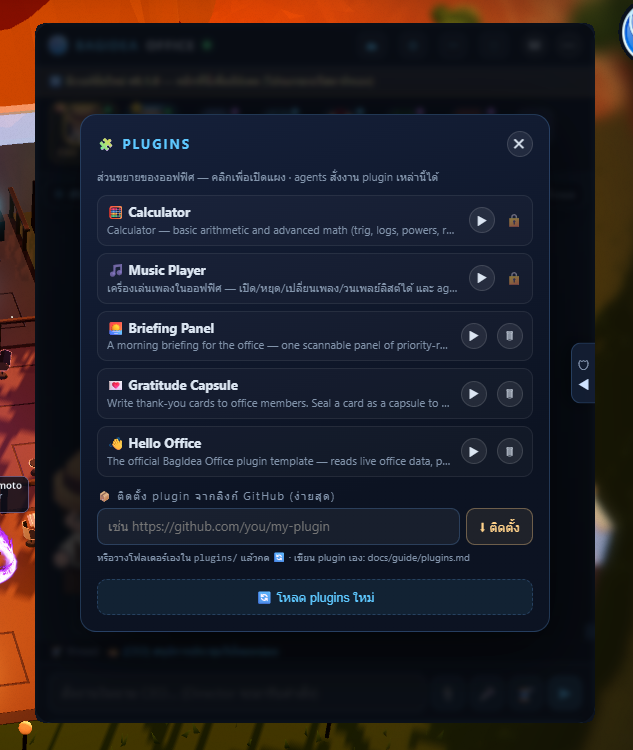
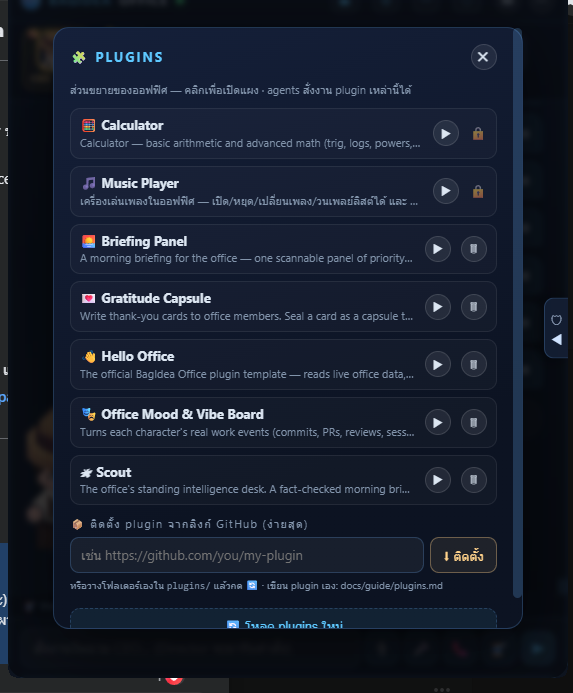
docs/web: macOS support now reflected in ALL languages + plugin showcase imgs
The website auto-picks the visitor's browser language, and the i18n table only
fully defines en/de/th — but the macOS-beta refresh had only touched the English
strings, so Thai/German visitors still saw "Windows only, macOS planned". Updated
the platform strings (badge, install note, requirements, the install-platform doc
line, and the "which platforms" FAQ — d_faq_a3, which had been missed entirely)
across en/de/th, and neutralized the hero subtitle + docs intro from "your Windows
desktop" to "your desktop". The other 11 listed languages fall back to the (now
correct) English.

Also surfaced plugins visually: refreshed plugins.png with the current panel
(7 plugins incl the agent-built Scout / Office Mood) and added briefing.png —
a plugin's live panel — to the README gallery and the web docs.

No code or VERSION change (docs/web only — no update banner; Pages redeploys).

diff --git a/web/assets/i18n.js b/web/assets/i18n.js
@@ -14,7 +14,7 @@ const I18N = {
     nav_features:"Features", nav_docs:"Docs", nav_install:"Install", nav_sponsors:"Sponsors",
     cta_get:"Get started", cta_docs:"Read the docs", cta_github:"GitHub",
     hero_title:'Your wallpaper <span class="grad">goes to work</span>.',
-    hero_sub:"BagIdea Office turns your Windows desktop into a living 2.5D office where every AI agent is a real Claude — they walk to their desks, ask permission, hold meetings, learn new skills, propose their own projects, and grow with you. A whole AI team living behind your icons.",
+    hero_sub:"BagIdea Office turns your desktop into a living HD-2D office where every AI agent is a real Claude that walks to its desk, asks permission, holds meetings, and gets work done — behind your icons.",
     badge_win:"Windows 11 · macOS (beta)", badge_open:"Open source", badge_free:"Free to run",
     badge_langs:"14 languages",
     shot_cap:"A real desktop, captured live — agents at their desks, the brand billboard, the day/night cycle following your local time.",
@@ -81,7 +81,7 @@ const I18N = {
     dn_features:"Features", dn_plugins:"Plugins & skills", dn_lang:"Languages",
     dn_cli:"CLI reference", dn_faq:"FAQ",
 
-    d_intro_h:"Introduction", d_intro_p1:"BagIdea Office is a living AI-agent office that runs as your Windows desktop wallpaper. Every AI agent on your machine becomes a pixel-art employee in an HD-2D office: they walk to their desks when real work starts, gather at Security to ask permission, hold meetings, learn skills, and the lights follow your real local time.",
+    d_intro_h:"Introduction", d_intro_p1:"BagIdea Office is a living AI-agent office that runs as your desktop wallpaper. Every AI agent on your machine becomes a pixel-art employee in an HD-2D office: they walk to their desks when real work starts, gather at Security to ask permission, hold meetings, learn skills, and the lights follow your real local time.",
     d_intro_p2:"It is not a dashboard and not a chat window — it is a world that renders the true state of your Claude Code sessions, headless agent runs and custom scripts as living characters, behind your desktop icons.",
     d_intro_p3:"Three independent layers keep it robust: a zero-dependency Node daemon (the source of truth), a Godot 4 renderer (the wallpaper), and a lightweight overlay UI (chat, settings, approvals). The daemon keeps agents running even if rendering restarts.",
 
@@ -132,7 +132,7 @@ const I18N = {
     d_faq_h:"FAQ",
     d_faq_q1:"Does it cost money to run?", d_faq_a1:"The app is free and open source (MIT). Agents run through your own Claude Code login, so usage follows your existing Claude account or subscription — there is no separate BagIdea fee.",
     d_faq_q2:"Is my code/data sent anywhere?", d_faq_a2:"The daemon runs locally on 127.0.0.1. Agents are Claude Code sessions, so they use Claude like any Claude Code project. Optional features (voice, image, realtime) use your own OpenAI/Gemini keys only when you enable them.",
-    d_faq_q3:"Which platforms are supported?", d_faq_a3:"Windows 11 today. Linux and macOS wallpaper backends are on the roadmap.",
+    d_faq_q3:"Which platforms are supported?", d_faq_a3:"Windows 11 and macOS 13+ (beta) today. A Linux wallpaper backend is on the roadmap.",
     d_faq_q4:"Can I build my own plugin?", d_faq_a4:"Yes — fork the official template repo. A person or an agent can build a working plugin from it in minutes; the full spec is in the plugin guide.",
   },
 
@@ -140,8 +140,8 @@ const I18N = {
     nav_features:"Funktionen", nav_docs:"Dokumentation", nav_install:"Installieren", nav_sponsors:"Sponsoren",
     cta_get:"Loslegen", cta_docs:"Dokumentation lesen", cta_github:"GitHub",
     hero_title:'Ihr Hintergrundbild <span class="grad">geht arbeiten</span>.',
-    hero_sub:"BagIdea Office verwandelt Ihren Windows-Desktop in ein lebendiges HD-2D-Büro, in dem jeder KI-Agent ein echter Claude ist, der zu seinem Schreibtisch geht, um Erlaubnis bittet, Meetings abhält und Arbeit erledigt — hinter Ihren Icons.",
-    badge_win:"Windows 11", badge_open:"Open Source", badge_free:"Kostenlos nutzbar",
+    hero_sub:"BagIdea Office verwandelt deinen Desktop in ein lebendiges HD-2D-Büro, in dem jeder KI-Agent ein echter Claude ist, der an seinen Schreibtisch geht, um Erlaubnis bittet, Meetings abhält und Arbeit erledigt – hinter deinen Icons.",
+    badge_win:"Windows 11 · macOS (beta)", badge_open:"Open Source", badge_free:"Kostenlos nutzbar",
     badge_langs:"14 Sprachen",
     shot_cap:"Ein echter Desktop, live aufgenommen — Agents an ihren Schreibtischen, das Marken-Billboard, der Tag-Nacht-Zyklus nach Ihrer lokalen Zeit.",
 
@@ -171,11 +171,11 @@ const I18N = {
 
     inst_eyebrow:"Installation", inst_title:"In Minuten einsatzbereit",
     inst_lead:"Ein Befehl installiert alle Abhängigkeiten, baut die App und fügt sie zu Ihrem PATH hinzu.",
-    inst_plat:"Derzeit unterstützt: Windows 11. Linux- und macOS-Wallpaper-Backends sind geplant und werden in einem späteren Update veröffentlicht.",
+    inst_plat:"Windows 11 (stabil) und macOS 13+ (beta) werden unterstützt. Ein Linux-Hintergrundbild-Backend ist für ein späteres Update geplant.",
     inst_s1_h:"Den Einzel-Installer ausführen", inst_s1_p:"Öffnen Sie PowerShell und fügen Sie dies ein. Es installiert Git, Node LTS, Rust, Godot 4.6.3 und die Claude Code-CLI, klont die App, baut die Shell, versieht das Icon mit dem Markenzeichen und fügt den bagidea-Befehl zu Ihrem PATH hinzu.",
     inst_s2_h:"Bei Claude anmelden (nur beim ersten Mal)", inst_s2_p:"Öffnen Sie ein neues Terminal und führen Sie claude einmal aus, um sich mit Ihrem bestehenden Claude-Konto oder -Abonnement anzumelden — das ist das Gehirn jedes Agents.",
     inst_s3_h:"Das Büro starten", inst_s3_p:"Führen Sie bagidea start aus (oder verwenden Sie die Startmenü-Verknüpfung). Ihr Hintergrundbild wird zum Büro, mit Chat-Kopf und Tray-Icon bereit.",
-    inst_req_h:"Systemanforderungen", inst_req:"Windows 11 · eine Vulkan-fähige GPU (getestet auf einer GTX 1060) · ein Claude-Konto (Claude Code CLI). Node, Rust und Godot werden vom Installer für Sie installiert.",
+    inst_req_h:"Systemanforderungen", inst_req:"Windows 11 oder macOS 13+ (beta) · eine Vulkan-fähige GPU (verifiziert auf einer GTX 1060) · ein Claude-Konto (Claude Code CLI). Node, Rust und Godot werden vom Installer für Sie installiert.",
     inst_manual:"Lieber manuell? Klonen Sie das Repo, bauen Sie die Rust-Shell mit cargo build --release und führen Sie sie aus. Vollständige Schritte sind in der Dokumentation.",
 
     cli_eyebrow:"Befehlszeile", cli_title:"Die bagidea-CLI",
@@ -205,7 +205,7 @@ const I18N = {
     dn_features:"Funktionen", dn_plugins:"Plugins & Fähigkeiten", dn_lang:"Sprachen",
     dn_cli:"CLI-Referenz", dn_faq:"FAQ",
 
-    d_intro_h:"Einführung", d_intro_p1:"BagIdea Office ist ein lebendiges KI-Agent-Büro, das als Ihr Windows-Desktop-Hintergrundbild läuft. Jeder KI-Agent auf Ihrem Rechner wird zu einem Pixel-Art-Mitarbeiter in einem HD-2D-Büro: Er geht zu seinem Schreibtisch, wenn echte Arbeit beginnt, versammelt sich bei der Sicherheitszentrale, um Erlaubnis zu bitten, hält Meetings ab, lernt Fähigkeiten, und die Lichter folgen Ihrer echten lokalen Zeit.",
+    d_intro_h:"Einführung", d_intro_p1:"BagIdea Office ist ein lebendiges KI-Agenten-Büro, das als dein Desktop-Hintergrund läuft. Jeder KI-Agent auf deinem Rechner wird zu einem Pixel-Art-Mitarbeiter in einem HD-2D-Büro: Sie gehen an ihre Schreibtische, wenn die echte Arbeit beginnt, versammeln sich an der Security, um um Erlaubnis zu bitten, halten Meetings ab, erlernen Fähigkeiten, und das Licht folgt deiner realen Ortszeit.",
     d_intro_p2:"Es ist kein Dashboard und kein Chatfenster — es ist eine Welt, die den wahren Zustand Ihrer Claude Code-Sitzungen, kopflosen Agent-Läufe und benutzerdefinierten Skripte als lebendige Figuren hinter Ihren Desktop-Icons rendert.",
     d_intro_p3:"Drei unabhängige Schichten sorgen für Robustheit: ein abhängigkeitsfreier Node-Daemon (die einzige Wahrheitsquelle), ein Godot 4-Renderer (das Hintergrundbild) und eine leichtgewichtige Overlay-UI (Chat, Einstellungen, Genehmigungen). Der Daemon hält Agents am Laufen, auch wenn der Renderer neu startet.",
 
@@ -228,7 +228,7 @@ const I18N = {
     d_install_manual_p:"Klonen Sie das Repository, zeigen Sie die Claude-Hook-Pfade auf Ihren Klon und bauen Sie dann die Rust-Shell:",
     d_install_first_h:"Erste Ausführung",
     d_install_first_p:"Melden Sie sich einmal bei Claude an, dann starten Sie das Büro. Ihr Hintergrundbild wird zum live Büro; ein Chat-Kopf und ein Tray-Icon erscheinen.",
-    d_install_plat:"Plattformunterstützung: Windows 11 heute (Wallpaper-Einbettung verwendet die WorkerW-Technik). Linux- und macOS-Backends sind für ein späteres Update geplant.",
+    d_install_plat:"Plattformunterstützung: Windows 11 (stabil, die Einbettung des Hintergrundbilds nutzt die WorkerW-Technik) und macOS 13+ (beta, neu in dieser Version). Ein Linux-Backend ist für ein späteres Update geplant.",
 
     d_using_h:"Nutzung",
     d_chat_h:"Chat & CEO", d_chat_p:"Das Chat-Panel öffnet sich auf Ihrem CEO-Sitz. Geben Sie einen Befehl auf dem CEO-Sitz ein und der Director kommt herüber, um ihn entgegenzunehmen, plant und delegiert — Sie sehen die Übergaben auf dem Hintergrundbild, und die Zusammenfassung wird zu Ihnen zurückgebracht. Um direkt mit einem Agent zu sprechen, klicken Sie auf sein Gesicht in der Leiste oder auf der Live-Karte. Jedes Gespräch ist ein fortsetzbarer Thread mit vollständigem Verlauf.",
@@ -246,7 +246,7 @@ const I18N = {
     d_faq_h:"FAQ",
     d_faq_q1:"Kostet es Geld, es zu betreiben?", d_faq_a1:"Die App ist kostenlos und Open Source (MIT). Agents laufen über Ihr eigenes Claude Code-Login, sodass die Nutzung Ihrem bestehenden Claude-Konto oder -Abonnement folgt — es gibt keine separate BagIdea-Gebühr.",
     d_faq_q2:"Werden mein Code/meine Daten irgendwohin gesendet?", d_faq_a2:"Der Daemon läuft lokal auf 127.0.0.1. Agents sind Claude Code-Sitzungen, daher verwenden sie Claude wie jedes Claude Code-Projekt. Optionale Funktionen (Sprache, Bild, Echtzeit) verwenden nur Ihre eigenen OpenAI/Gemini-Schlüssel, wenn Sie sie aktivieren.",
-    d_faq_q3:"Welche Plattformen werden unterstützt?", d_faq_a3:"Windows 11 heute. Linux- und macOS-Wallpaper-Backends sind auf der Roadmap.",
+    d_faq_q3:"Welche Plattformen werden unterstützt?", d_faq_a3:"Windows 11 und macOS 13+ (beta) heute. Ein Linux-Hintergrundbild-Backend steht auf der Roadmap.",
     d_faq_q4:"Kann ich mein eigenes Plugin bauen?", d_faq_a4:"Ja — forken Sie das offizielle Vorlagen-Repo. Eine Person oder ein Agent kann in Minuten ein funktionierendes Plugin daraus erstellen; die vollständige Spezifikation befindet sich im Plugin-Leitfaden.",
   },
 
@@ -254,8 +254,8 @@ const I18N = {
     nav_features:"ฟีเจอร์", nav_docs:"คู่มือ", nav_install:"ติดตั้ง", nav_sponsors:"สปอนเซอร์",
     cta_get:"เริ่มใช้งาน", cta_docs:"อ่านคู่มือ", cta_github:"GitHub",
     hero_title:'วอลเปเปอร์ของคุณ <span class="grad">ทำงานได้จริง</span>',
-    hero_sub:"BagIdea Office เปลี่ยนเดสก์ท็อป Windows ของคุณให้เป็นออฟฟิศ 2.5D ที่มีชีวิต — ทุก AI agent คือ Claude ตัวจริงที่เดินไปนั่งโต๊ะ ขออนุญาต ประชุม เรียนรู้สกิลใหม่ เสนอโปรเจคของตัวเอง และเติบโตไปพร้อมคุณ ทีม AI ทั้งทีมที่อยู่หลังไอคอนของคุณ",
-    badge_win:"Windows 11", badge_open:"โอเพนซอร์ส", badge_free:"ใช้ฟรี",
+    hero_sub:"BagIdea Office เปลี่ยนเดสก์ท็อปของคุณให้เป็นออฟฟิศ HD-2D ที่มีชีวิตชีวา ซึ่งเอเจนต์ AI ทุกตัวคือ Claude ตัวจริงที่เดินไปที่โต๊ะทำงานของตัวเอง ขออนุญาต จัดประชุม และทำงานจนเสร็จสิ้น — อยู่เบื้องหลังไอคอนต่างๆ ของคุณ",
+    badge_win:"Windows 11 · macOS (beta)", badge_open:"โอเพนซอร์ส", badge_free:"ใช้ฟรี",
     badge_langs:"14 ภาษา",
     shot_cap:"เดสก์ท็อปจริง ถ่ายสด — agents นั่งทำงานที่โต๊ะ, ป้ายแบรนด์, วงจรกลางวัน-กลางคืนตามเวลาเครื่องคุณ",
 
@@ -285,11 +285,11 @@ const I18N = {
 
     inst_eyebrow:"การติดตั้ง", inst_title:"พร้อมใช้ในไม่กี่นาที",
     inst_lead:"คำสั่งเดียวติดตั้ง dependency ทั้งหมด, build แอป, และผูกคำสั่งเข้า PATH ให้",
-    inst_plat:"ตอนนี้รองรับ Windows 11 ส่วน Linux และ macOS อยู่ในแผนและจะอัปเดตตามมาภายหลัง",
+    inst_plat:"รองรับ Windows 11 (stable) และ macOS 13+ (beta) สำหรับแบ็กเอนด์วอลเปเปอร์ของ Linux มีแผนจะเพิ่มเข้ามาในการอัปเดตภายหลัง",
     inst_s1_h:"รันตัวติดตั้งคำสั่งเดียว", inst_s1_p:"เปิด PowerShell แล้ววางคำสั่งนี้ มันจะติดตั้ง Git, Node LTS, Rust, Godot 4.6.3 และ Claude Code CLI, clone แอป, build shell, ทำไอคอนแบรนด์ และเพิ่มคำสั่ง bagidea เข้า PATH",
     inst_s2_h:"ล็อกอิน Claude (ครั้งแรกครั้งเดียว)", inst_s2_p:"เปิดเทอร์มินัลใหม่ รัน claude หนึ่งครั้งเพื่อเข้าสู่ระบบด้วยบัญชี/แพ็กเกจ Claude ที่คุณมีอยู่ — นั่นคือสมองของทุก agent",
     inst_s3_h:"เปิดออฟฟิศ", inst_s3_p:"รัน bagidea start (หรือใช้ทางลัด Start Menu) วอลเปเปอร์จะกลายเป็นออฟฟิศ พร้อมหัวแชทและไอคอนถาดระบบ",
-    inst_req_h:"ความต้องการของระบบ", inst_req:"Windows 11 · การ์ดจอที่รองรับ Vulkan (ทดสอบบน GTX 1060) · บัญชี Claude (Claude Code CLI) ส่วน Node, Rust, Godot ตัวติดตั้งจัดการให้",
+    inst_req_h:"ความต้องการของระบบ", inst_req:"Windows 11 หรือ macOS 13+ (beta) · GPU ที่รองรับ Vulkan (ผ่านการตรวจสอบแล้วบน GTX 1060) · บัญชี Claude (Claude Code CLI) โดย Node, Rust และ Godot จะถูกติดตั้งให้คุณโดยตัวติดตั้ง",
     inst_manual:"อยากติดตั้งเอง? clone repo, build Rust shell ด้วย cargo build --release แล้วรัน ขั้นตอนเต็มอยู่ในคู่มือ",
 
     cli_eyebrow:"คอมมานด์ไลน์", cli_title:"คำสั่ง bagidea",
@@ -320,7 +320,7 @@ const I18N = {
     dn_features:"ฟีเจอร์", dn_plugins:"Plugin & สกิล", dn_lang:"ภาษา",
     dn_cli:"คำสั่ง CLI", dn_faq:"คำถามที่พบบ่อย",
 
-    d_intro_h:"แนะนำ", d_intro_p1:"BagIdea Office คือออฟฟิศ AI agent ที่มีชีวิต ทำงานเป็นวอลเปเปอร์เดสก์ท็อป Windows ของคุณ ทุก AI agent ในเครื่องจะกลายเป็นพนักงานพิกเซลอาร์ตในออฟฟิศ HD-2D เดินไปนั่งโต๊ะเมื่อมีงานจริง ไปขออนุญาตที่ห้องสิทธิ์ ประชุม เรียนรู้สกิล และแสงไฟตามเวลาจริงของเครื่องคุณ",
+    d_intro_h:"แนะนำ", d_intro_p1:"BagIdea Office คือออฟฟิศเอเจนต์ AI ที่มีชีวิตชีวาซึ่งทำงานเป็นวอลเปเปอร์เดสก์ท็อปของคุณ เอเจนต์ AI ทุกตัวบนเครื่องของคุณจะกลายเป็นพนักงานพิกเซลอาร์ตในออฟฟิศ HD-2D พวกเขาจะเดินไปที่โต๊ะทำงานเมื่อเริ่มงานจริง รวมตัวกันที่ฝ่ายรักษาความปลอดภัยเพื่อขออนุญาต จัดประชุม เรียนรู้ทักษะต่างๆ และแสงไฟจะเปลี่ยนไปตามเวลาท้องถิ่นจริงของคุณ",
     d_intro_p2:"มันไม่ใช่แดชบอร์ดและไม่ใช่หน้าต่างแชท — แต่เป็นโลกที่เรนเดอร์สถานะจริงของ Claude Code session, การรัน agent แบบ headless และสคริปต์ของคุณ เป็นตัวละครมีชีวิต อยู่หลังไอคอนเดสก์ท็อป",
     d_intro_p3:"สามชั้นอิสระทำให้ระบบทนทาน: Node daemon แบบไม่มี dependency (แหล่งความจริง), ตัวเรนเดอร์ Godot 4 (วอลเปเปอร์), และ UI overlay เบา ๆ (แชท ตั้งค่า อนุมัติ) daemon ทำให้ agents ทำงานต่อแม้ตัวเรนเดอร์รีสตาร์ต",
 
@@ -351,7 +351,7 @@ const I18N = {
     d_install_manual_p:"clone repo, ชี้ path ของ Claude hook มาที่ clone ของคุณ แล้ว build Rust shell:",
     d_install_first_h:"เปิดครั้งแรก",
     d_install_first_p:"ล็อกอิน Claude หนึ่งครั้ง แล้วเปิดออฟฟิศ วอลเปเปอร์จะกลายเป็นออฟฟิศสด พร้อมหัวแชทและไอคอนถาดระบบ",
-    d_install_plat:"การรองรับแพลตฟอร์ม: ตอนนี้ Windows 11 (ฝังวอลเปเปอร์ด้วยเทคนิค WorkerW) ส่วน Linux และ macOS อยู่ในแผนอัปเดตภายหลัง",
+    d_install_plat:"แพลตฟอร์มที่รองรับ: Windows 11 (stable, การฝังวอลเปเปอร์ใช้เทคนิค WorkerW) และ macOS 13+ (beta, ใหม่ในรุ่นนี้) สำหรับแบ็กเอนด์ของ Linux มีแผนจะเพิ่มเข้ามาในการอัปเดตภายหลัง",
 
     d_using_h:"การใช้งาน",
     d_chat_h:"แชท & CEO", d_chat_p:"หน้าต่างแชทเปิดที่ที่นั่ง CEO ของคุณ พิมพ์สั่งงานในนาม CEO แล้ว Director จะเดินมารับ วางแผน และมอบหมาย — คุณเห็นการส่งงานบนวอลเปเปอร์ แล้วเขาเดินกลับมารายงานสรุป จะคุยกับ agent ตัวไหนตรง ๆ ก็คลิกหน้าในแถบหรือบนแผนที่สด ทุกบทสนทนาเป็น thread ที่กลับมาต่อได้พร้อมประวัติ",
@@ -371,7 +371,7 @@ const I18N = {
     d_faq_h:"คำถามที่พบบ่อย",
     d_faq_q1:"รันแล้วเสียเงินไหม?", d_faq_a1:"ตัวแอปฟรีและโอเพนซอร์ส (MIT) agents รันผ่าน Claude Code login ของคุณเอง การใช้งานจึงเป็นไปตามบัญชี/แพ็กเกจ Claude ที่คุณมี — ไม่มีค่าธรรมเนียม BagIdea แยกต่างหาก",
     d_faq_q2:"โค้ด/ข้อมูลของฉันถูกส่งไปไหนไหม?", d_faq_a2:"daemon รันในเครื่องที่ 127.0.0.1 agents คือ Claude Code session จึงใช้ Claude เหมือนโปรเจค Claude Code ทั่วไป ฟีเจอร์เสริม (เสียง รูป เรียลไทม์) ใช้ key OpenAI/Gemini ของคุณเองเฉพาะเมื่อเปิดใช้",
-    d_faq_q3:"รองรับแพลตฟอร์มไหน?", d_faq_a3:"ตอนนี้ Windows 11 ส่วน Linux และ macOS อยู่ใน roadmap",
+    d_faq_q3:"รองรับแพลตฟอร์มไหน?", d_faq_a3:"Windows 11 และ macOS 13+ (beta) ในปัจจุบัน สำหรับแบ็กเอนด์วอลเปเปอร์ของ Linux อยู่ในแผนงานพัฒนา",
     d_faq_q4:"เขียน plugin เองได้ไหม?", d_faq_a4:"ได้ — fork เทมเพลตทางการ ทั้งคนและ agent สร้าง plugin ที่ใช้งานได้จากมันในไม่กี่นาที spec เต็มอยู่ในคู่มือ plugin",
   },
 };

diff --git a/web/docs.html b/web/docs.html
@@ -57,7 +57,7 @@
     <p class="muted" data-i18n="d_sub">Everything about BagIdea Office — what it is, every feature, how to install, and the full CLI.</p>
 
     <h2 id="intro" data-i18n="d_intro_h">Introduction</h2>
-    <p data-i18n="d_intro_p1">BagIdea Office is a living AI-agent office that runs as your Windows desktop wallpaper. Every AI agent on your machine becomes a pixel-art employee in an HD-2D office: they walk to their desks when real work starts, gather at Security to ask permission, hold meetings, learn skills, and the lights follow your real local time.</p>
+    <p data-i18n="d_intro_p1">BagIdea Office is a living AI-agent office that runs as your desktop wallpaper. Every AI agent on your machine becomes a pixel-art employee in an HD-2D office: they walk to their desks when real work starts, gather at Security to ask permission, hold meetings, learn skills, and the lights follow your real local time.</p>
     <p data-i18n="d_intro_p2">It is not a dashboard and not a chat window — it is a world that renders the true state of your Claude Code sessions, headless agent runs and custom scripts as living characters, behind your desktop icons.</p>
     <p data-i18n="d_intro_p3">Three independent layers keep it robust: a zero-dependency Node daemon (the source of truth), a Godot 4 renderer (the wallpaper), and a lightweight overlay UI (chat, settings, approvals). The daemon keeps agents running even if rendering restarts.</p>
     <img src="img/world.png" alt="BagIdea Office overview">
@@ -135,7 +135,8 @@ bagidea start   # launch the office</code></pre>
 
     <h2 id="plugins" data-i18n="d_plugins_h">Plugins, skills & tools</h2>
     <p data-i18n="d_plugins_p">Plugins extend the office for real — a folder with a manifest can add UI panels, HTTP routes, and commands agents can drive, with ctx access to the registry, feed, broadcasting and even running Claude turns. Two core plugins ship in the box (🎵 Music Player, 🧮 Calculator); install more from any GitHub repo. Start from the official template, or read the worked example repos.</p>
-    <img src="img/plugins.png" alt="The plugins panel">
+    <img src="img/plugins.png" alt="The plugins panel listing installed plugins, with install-from-GitHub">
+    <img src="img/briefing.png" alt="A morning briefing rendered inside a plugin panel">
     <pre><code>bagidea plugin install https://github.com/bagidea/bagidea-office-template</code></pre>
     <p data-i18n="d_skills_p">Every office ships with a library of builtin skills (deep research, office control, plugin building, code review, docs, debugging, data wrangling, project kickoff, diagrams) you can assign to any agent, plus Hermes-style skills the office learns automatically after real work. Add new raw capability via MCP servers.</p>
 
@@ -176,7 +177,7 @@ bagidea start   # launch the office</code></pre>
     <h3 data-i18n="d_faq_q2">Is my code/data sent anywhere?</h3>
     <p data-i18n="d_faq_a2">The daemon runs locally on 127.0.0.1. Agents are Claude Code sessions, so they use Claude like any Claude Code project. Optional features (voice, image, realtime) use your own OpenAI/Gemini keys only when you enable them.</p>
     <h3 data-i18n="d_faq_q3">Which platforms are supported?</h3>
-    <p data-i18n="d_faq_a3">Windows 11 today. Linux and macOS wallpaper backends are on the roadmap.</p>
+    <p data-i18n="d_faq_a3">Windows 11 and macOS 13+ (beta) today. A Linux wallpaper backend is on the roadmap.</p>
     <h3 data-i18n="d_faq_q4">Can I build my own plugin?</h3>
     <p data-i18n="d_faq_a4">Yes — fork the official template repo. A person or an agent can build a working plugin from it in minutes; the full spec is in the plugin guide.</p>
   </main>

diff --git a/web/index.html b/web/index.html
@@ -33,7 +33,7 @@
 <header class="hero">
   <div class="wrap">
     <h1 data-i18n-html="hero_title">Your wallpaper <span class="grad">goes to work</span>.</h1>
-    <p class="sub" data-i18n="hero_sub">BagIdea Office turns your Windows desktop into a living HD-2D office where every AI agent is a real Claude that walks to its desk, asks permission, holds meetings, and gets work done — behind your icons.</p>
+    <p class="sub" data-i18n="hero_sub">BagIdea Office turns your desktop into a living HD-2D office where every AI agent is a real Claude that walks to its desk, asks permission, holds meetings, and gets work done — behind your icons.</p>
     <div class="cta">
       <a class="btn primary" href="#install" data-i18n="cta_get">Get started</a>
       <a class="btn ghost" href="docs.html" data-i18n="cta_docs">Read the docs</a>

diff --git a/README.md b/README.md
@@ -41,6 +41,8 @@ the office truly comes alive.
 | ![Chat panel focused on the CEO](docs/img/overlay.png) | ![The 3D Office Editor](docs/img/editor.png) |
 | 👥 Agents at their desks, auras lit | ⌨️ The `bagidea` CLI |
 | ![Agents working at their desks](docs/img/agents.png) | ![The bagidea CLI help](docs/img/cli.png) |
+| 🔌 Plugins — agents build & run their own | 📰 A live briefing panel (a plugin in action) |
+| ![The PLUGINS panel listing installed plugins, with install-from-GitHub](docs/img/plugins.png) | ![A morning briefing rendered inside a plugin panel](docs/img/briefing.png) |
 
 > ✅ **Status: working product — Windows 11 (stable) + macOS 13+ (beta, new this release).** The full pipeline works end-to-end: wallpaper → daemon → real Claude Code sessions working *inside real project folders* → spatialized approvals → agent management UI → Telegram/Discord/LINE channels → CLI → self-updater. All visuals and sounds **ship in the repo** (free / CC0 art — see [Art assets](#art-assets)), so a fresh install and `bagidea update` carry the full look out of the box.
 